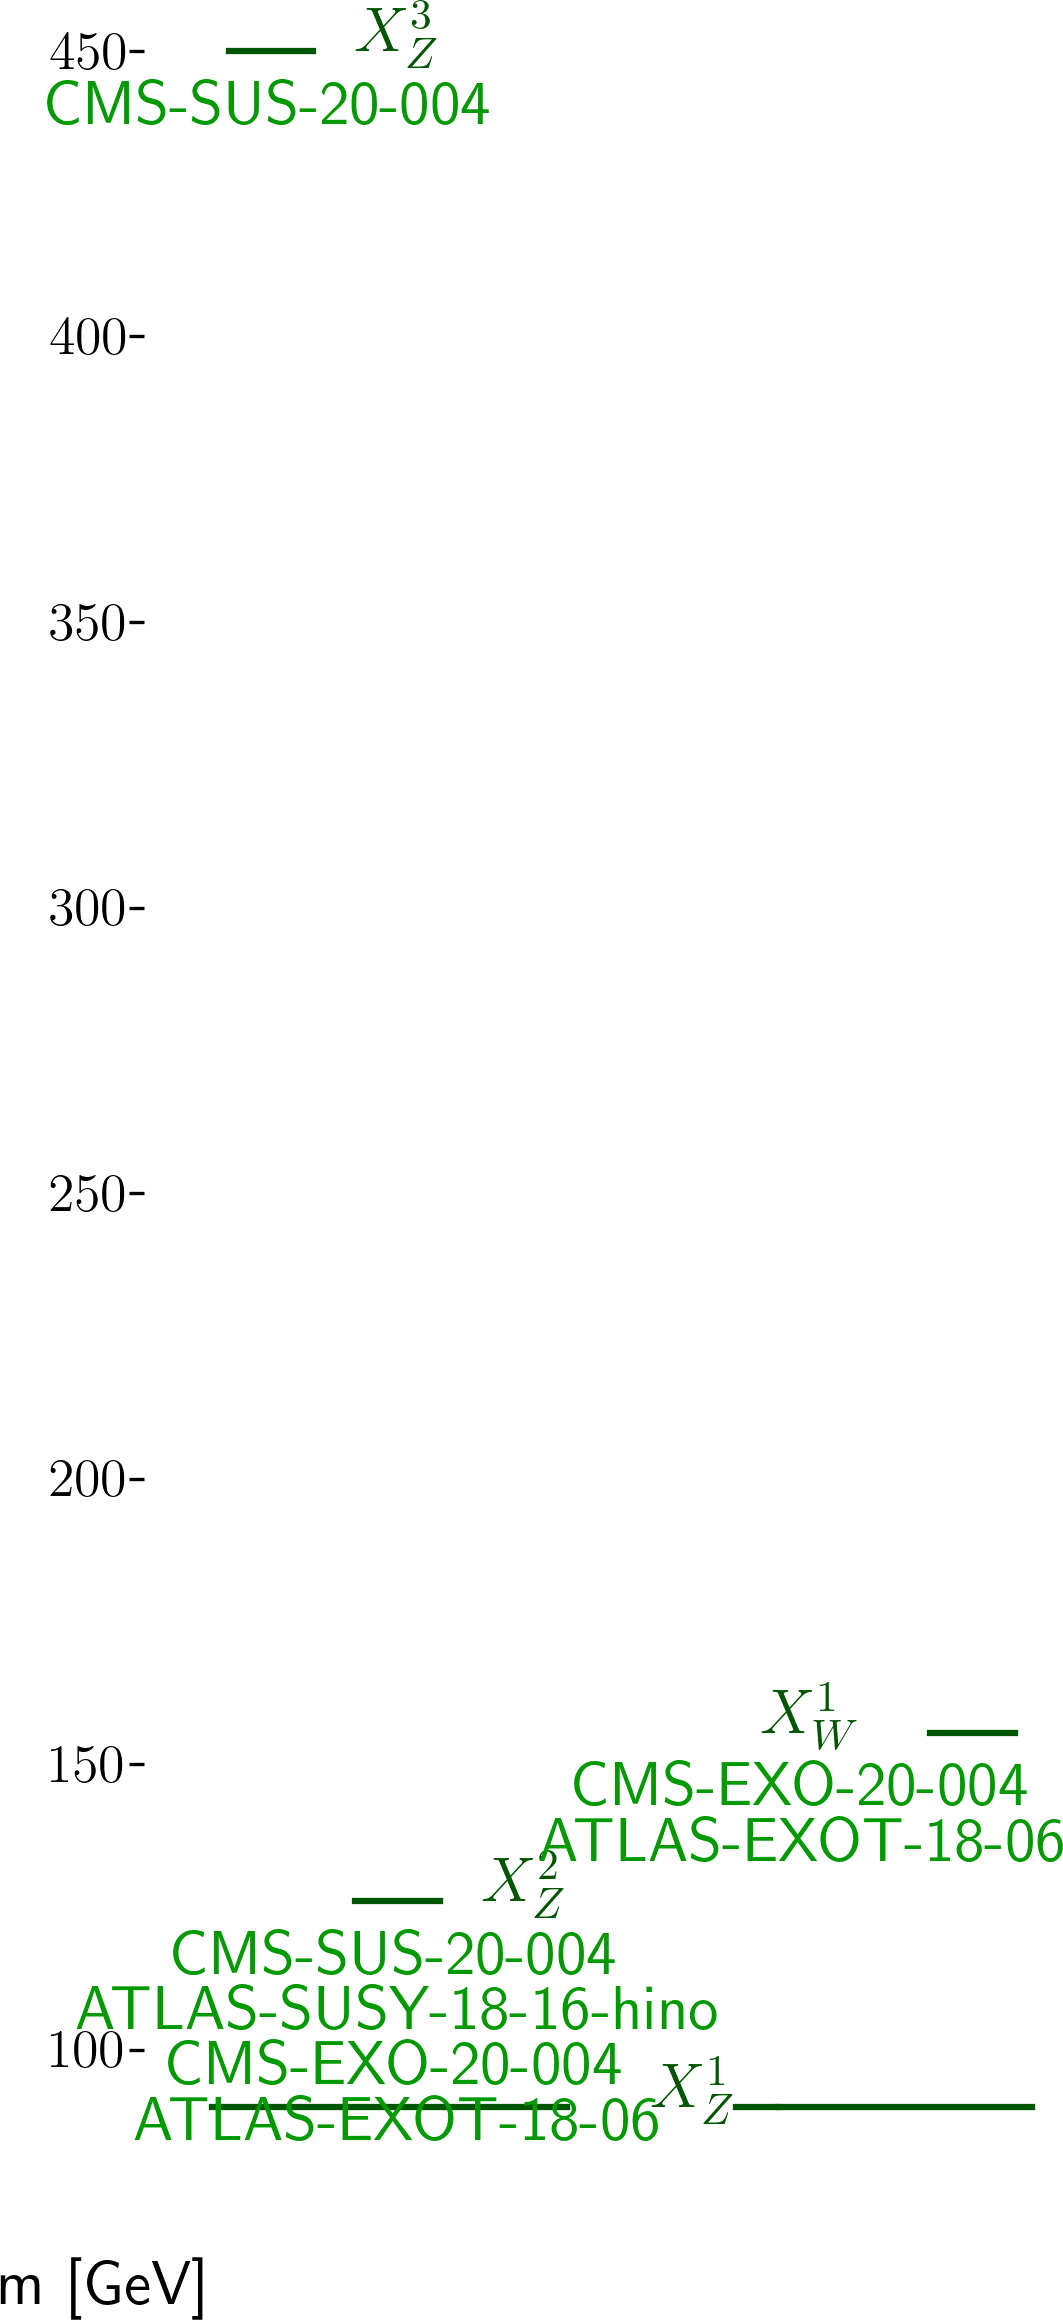
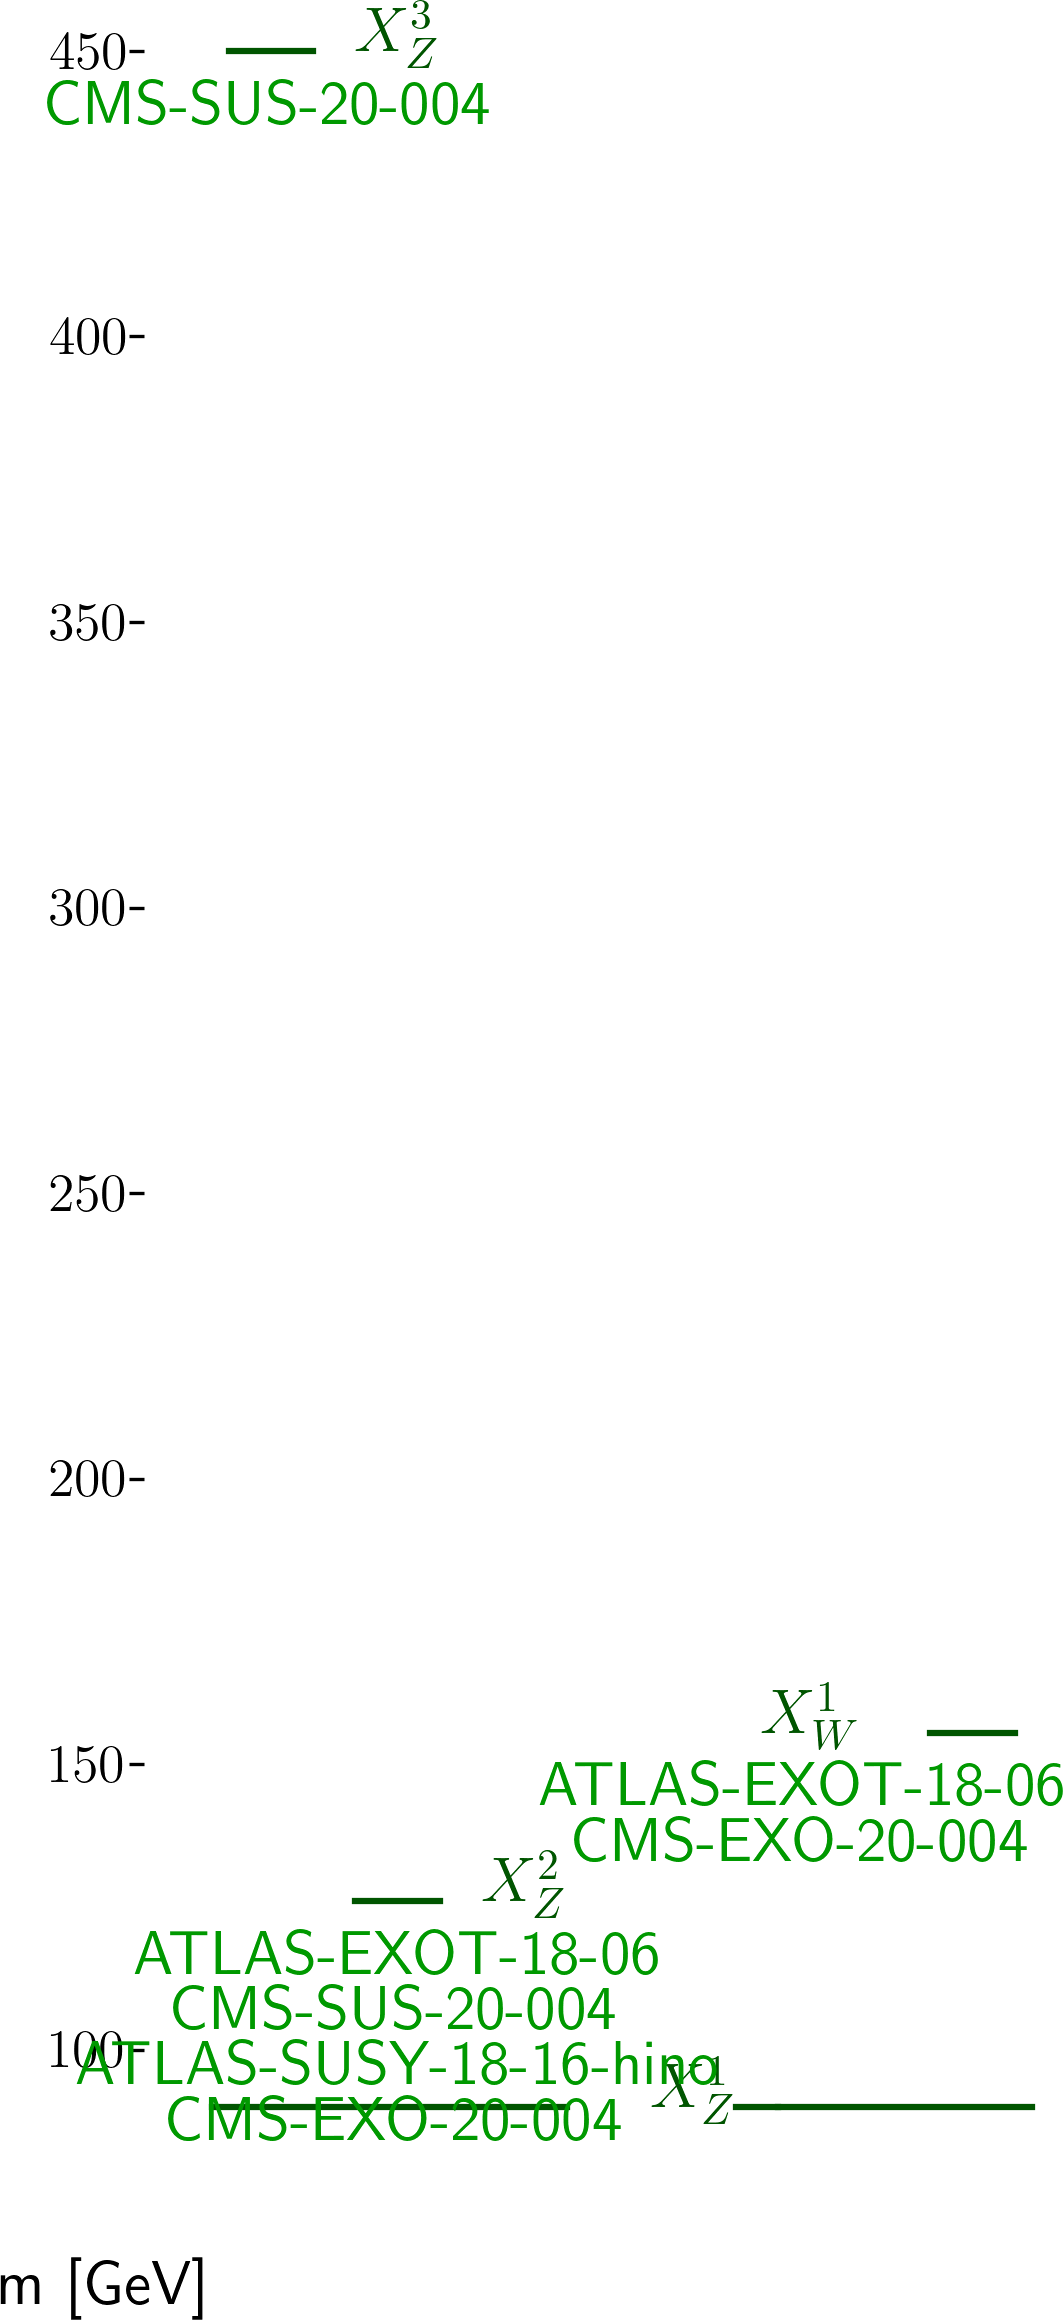
automated update by plotHiscore.py to test2:     K=21.259 TL=32.18 walkerid=uphi

Changed region(s): [[0.0621, 0.8069, 0.683, 0.931], [0.4967, 0.7448, 1.0, 0.8069]]

diff --git a/protomodels/test2/rawnumbers.html b/protomodels/test2/rawnumbers.html
@@ -2,8 +2,8 @@
 <tr><th>Analysis Name</th><th>Type</th><th>Dataset</th><th>Topos</th><th>Observed</th><th>Expected</th><th>Approx &sigma;</th><th>Particles</th>
 </tr>
 <tr><td><a href=http://cms-results.web.cern.ch/cms-results/public-results/publications/EXO-20-004/>CMS-EXO-20-004</a></td><td>comb</td> <td>-</td><td>TChiISR, TChiWISRll, TChiZISRll, TChiZISRqq</td><td> 2e+02 fb </td><td> 1e+02 fb</td><td style="text-align:right">4.4 &sigma;</td><td style="text-align:right">X<sup>1</sup><sub>W</sub>, X<sup>1</sup><sub>Z</sub>, X<sup>2</sup><sub>Z</sub></td></tr>
-<tr><td><a href=https://atlas.web.cern.ch/Atlas/GROUPS/PHYSICS/PAPERS/SUSY-2018-16/>ATLAS-SUSY-2018-16-hino</a></td><td>em</td> <td>SR_ewk_2l_med</td><td>TChiZoff</td><td>170</td><td>112.40 +/- 12.60</td><td style="text-align:right">3.3 &sigma;</td><td style="text-align:right">X<sup>1</sup><sub>Z</sub>, X<sup>2</sup><sub>Z</sub></td></tr>
-<tr><td><a href=https://atlas.web.cern.ch/Atlas/GROUPS/PHYSICS/PAPERS/EXOT-2018-06/>ATLAS-EXOT-2018-06</a></td><td>em</td> <td>EM10</td><td>TChiISR, TChiWISRll, TChiZISRll, TChiZISRqq</td><td>413</td><td>359.00 +/- 10.00</td><td style="text-align:right">2.4 &sigma;</td><td style="text-align:right">X<sup>1</sup><sub>W</sub>, X<sup>1</sup><sub>Z</sub>, X<sup>2</sup><sub>Z</sub></td></tr>
+<tr><td><a href=https://atlas.web.cern.ch/Atlas/GROUPS/PHYSICS/PAPERS/SUSY-2018-16/>ATLAS-SUSY-2018-16-hino</a></td><td>em</td> <td>SR_ewk_2l_med</td><td>TChiZoff</td><td>170</td><td>112.40 +/- 12.60</td><td style="text-align:right">3.2 &sigma;</td><td style="text-align:right">X<sup>1</sup><sub>Z</sub>, X<sup>2</sup><sub>Z</sub></td></tr>
+<tr><td><a href=https://atlas.web.cern.ch/Atlas/GROUPS/PHYSICS/PAPERS/EXOT-2018-06/>ATLAS-EXOT-2018-06</a></td><td>em</td> <td>EM10</td><td>TChiISR, TChiWISRll, TChiZISRll, TChiZISRqq</td><td>413</td><td>359.00 +/- 10.00</td><td style="text-align:right">2.5 &sigma;</td><td style="text-align:right">X<sup>1</sup><sub>W</sub>, X<sup>1</sup><sub>Z</sub>, X<sup>2</sup><sub>Z</sub></td></tr>
 <tr><td><a href=http://cms-results.web.cern.ch/cms-results/public-results/publications/SUS-20-004/>CMS-SUS-20-004</a></td><td>comb</td> <td>-</td><td>TChiHH</td><td> 0.3 fb </td><td> 0.2 fb</td><td style="text-align:right">2.1 &sigma;</td><td style="text-align:right">X<sup>3</sup><sub>Z</sub>, X<sup>2</sup><sub>Z</sub></td></tr>
 </table>
 <table style='color:grey'>

diff --git a/protomodels/test2/index.html b/protomodels/test2/index.html
@@ -13,16 +13,16 @@ CMS-SUS-20-004:ul:: <span style='color: darkgreen;'>robs=0.724, rexp=1.45</span>
 ATLAS-SUSY-2018-16-hino:SR_ewk_2l_high:: <span style='color: darkgreen;'>robs=0.549, rexp=0.52</span><br>
 <br><b>LLHD Critic:</b> CMS-EXO-20-004:combined, ATLAS-EXOT-2018-06:EM8, CMS-SUS-20-004:combined, CMS-SUS-16-048:Ewkino_highMET_M_10to20, ATLAS-SUSY-2018-16-hino:SR_ewk_2l_high:: <span style='color: darkred;'>robs=1.06, rexp=3.39</span><br>
 <br><b>6 predictions available. Highest r values are:</b><br><ul>
-<li><a href=https://atlas.web.cern.ch/Atlas/GROUPS/PHYSICS/PAPERS/EXOT-2018-06/>ATLAS-EXOT-2018-06</a>:EM8:TChiZISRll,TChiZISRqq,TChiWISRll,TChiISR r=1.58, r<sub>exp</sub>=1.71<br>
+<li><a href=https://atlas.web.cern.ch/Atlas/GROUPS/PHYSICS/PAPERS/EXOT-2018-06/>ATLAS-EXOT-2018-06</a>:EM8:TChiZISRqq,TChiWISRll,TChiZISRll,TChiISR r=1.58, r<sub>exp</sub>=1.71<br>
 <li><a href=http://cms-results.web.cern.ch/cms-results/public-results/publications/SUS-20-004/>CMS-SUS-20-004</a>:ul:TChiHH r=0.72, r<sub>exp</sub>=1.45<br>
 <li><a href=https://atlas.web.cern.ch/Atlas/GROUPS/PHYSICS/PAPERS/SUSY-2018-16/>ATLAS-SUSY-2018-16-hino</a>:SR_ewk_2l_high:TChiZoff r=0.55, r<sub>exp</sub>=0.52<br>
 <li><a href=http://cms-results.web.cern.ch/cms-results/public-results/publications/SUS-16-048/index.html>CMS-SUS-16-048</a>:Ewkino_highMET_M_10to20:TChiWZoff r=0.53, r<sub>exp</sub>=0.45<br>
 </ul>
-<td><img width=600px src=./texdoc.png?1767530438>
-<br><span style='font-size: smaller; color: darkred;'>Last updated: Sun Jan  4 13:40:38 2026</span>
+<td><img width=600px src=./texdoc.png?1767545711>
+<br><span style='font-size: smaller; color: darkred;'>Last updated: Sun Jan  4 17:55:11 2026</span>
 </table><table style="width:80%">
-<td width=45%><img height=580px src=./ruler.png?1767530438><td width=55%><img height=220px src=./decays.png?1767530438>
-<font size=-3><iframe type="text/html" height="350px" width="100%" frameborder="0" src="./rawnumbers.html?1767530438"></iframe></font>
+<td width=45%><img height=580px src=./ruler.png?1767545711><td width=55%><img height=220px src=./decays.png?1767545711>
+<font size=-3><iframe type="text/html" height="350px" width="100%" frameborder="0" src="./rawnumbers.html?1767545711"></iframe></font>
 </table>
 </body>
 </html>
